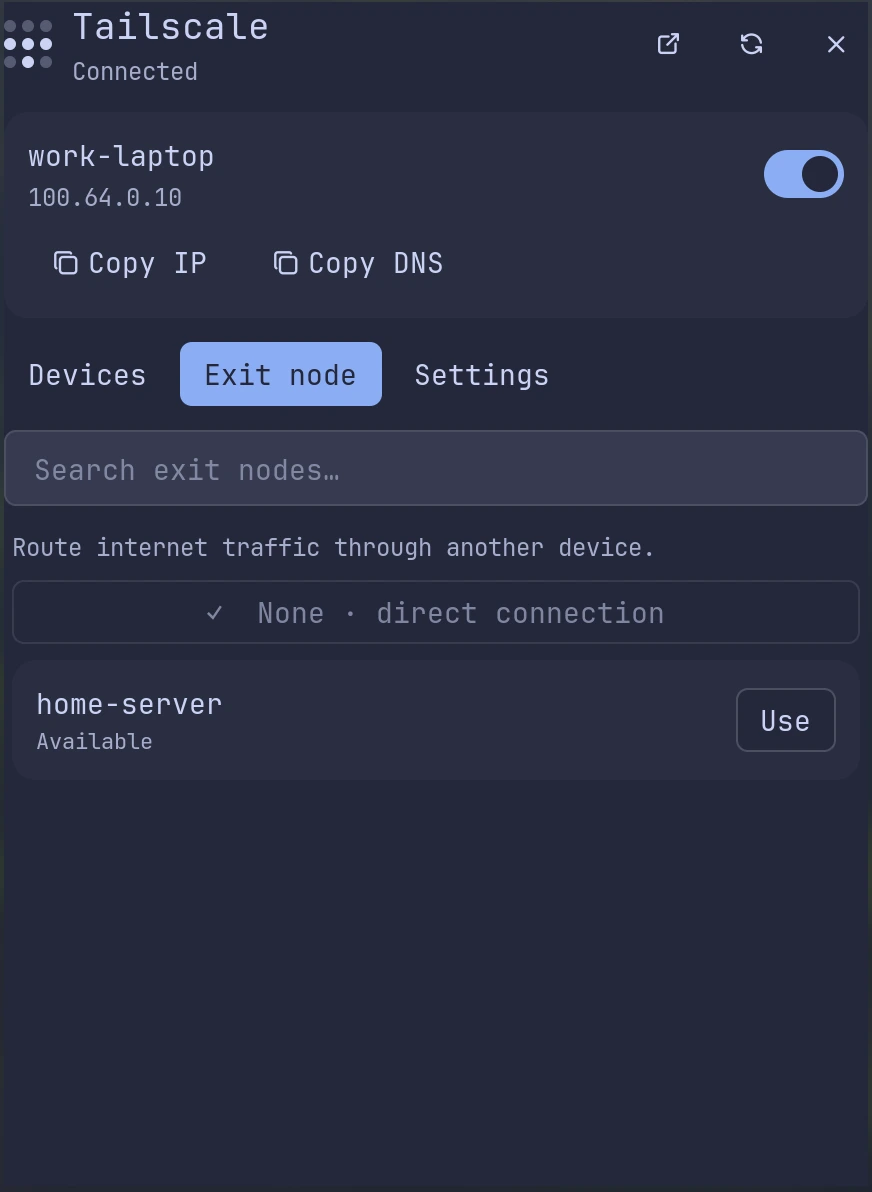
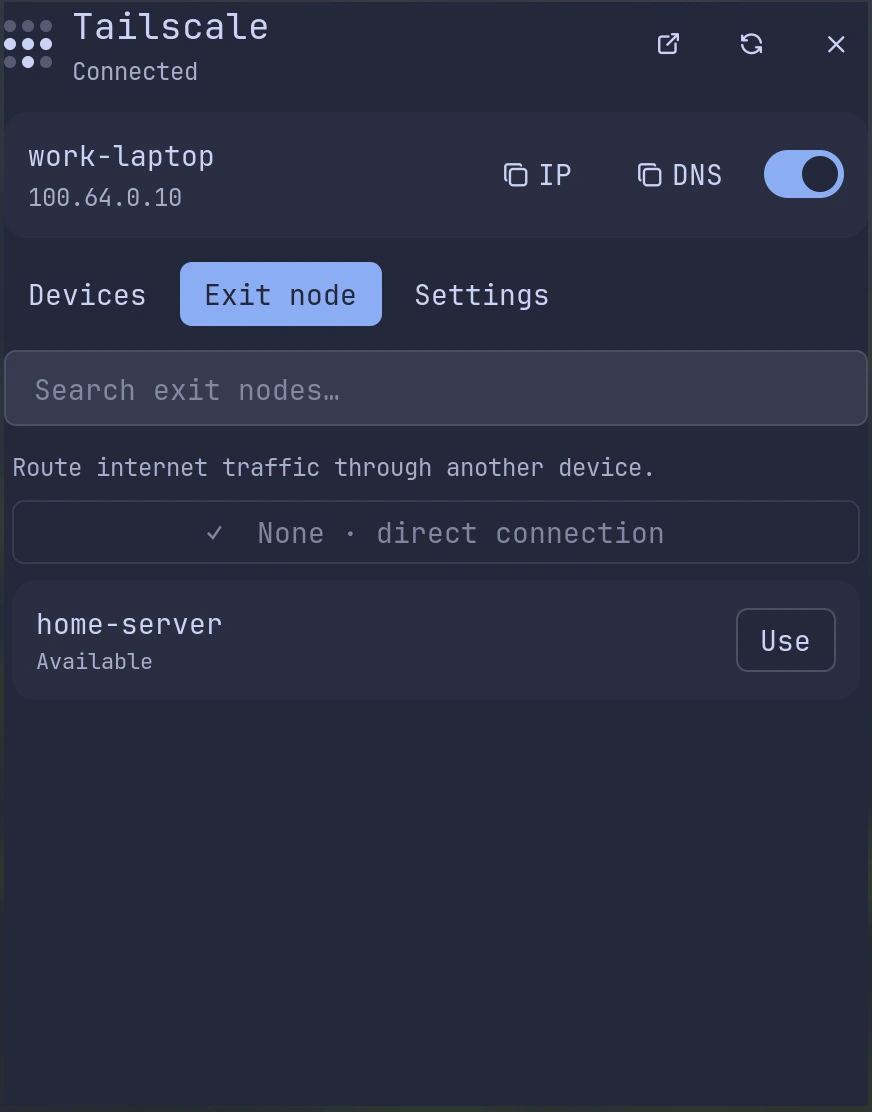
Compact Tailscale Simple device controls and panel height

diff --git a/tailscale-simple/README.md b/tailscale-simple/README.md
@@ -37,13 +37,15 @@ The `service` entry starts automatically when enabled and polls status without c
 noctalia msg panel-toggle alivault/tailscale-simple:manager
 ```
 
-- Use the switch beside your device name to connect or disconnect. Copy IP and Copy DNS sit below it.
+- Use the switch beside your device name to connect or disconnect. The inline **IP** and **DNS** buttons
+  retain copy icons and tooltips, and copy your device's address or DNS name.
 - **Devices:** search by name, DNS name, or IP. Green dots mean online; gray dots mean offline.
   The vertical ellipsis expands the IP address and Ping, SSH, and Copy DNS actions.
 - **Exit node:** choose an available node or select **None · direct connection** to stop using an exit node.
 - **Settings:** toggle incoming-connection blocking, Tailscale SSH, subnet routes, advertising this device
   as an exit node, and local-network access while using an exit node.
 - The header icons open the admin console, refresh status, and close the panel. Action results use notifications.
+- The panel is 580 logical pixels tall, fitting the settings without unnecessary empty space at the default scale.
 
 Type `/tss` in the Noctalia launcher for categories. Examples: `/tss peers laptop`, `/tss exit`,
 `/tss panel`, `/tss status`, `/tss refresh`, and `/tss admin`.
